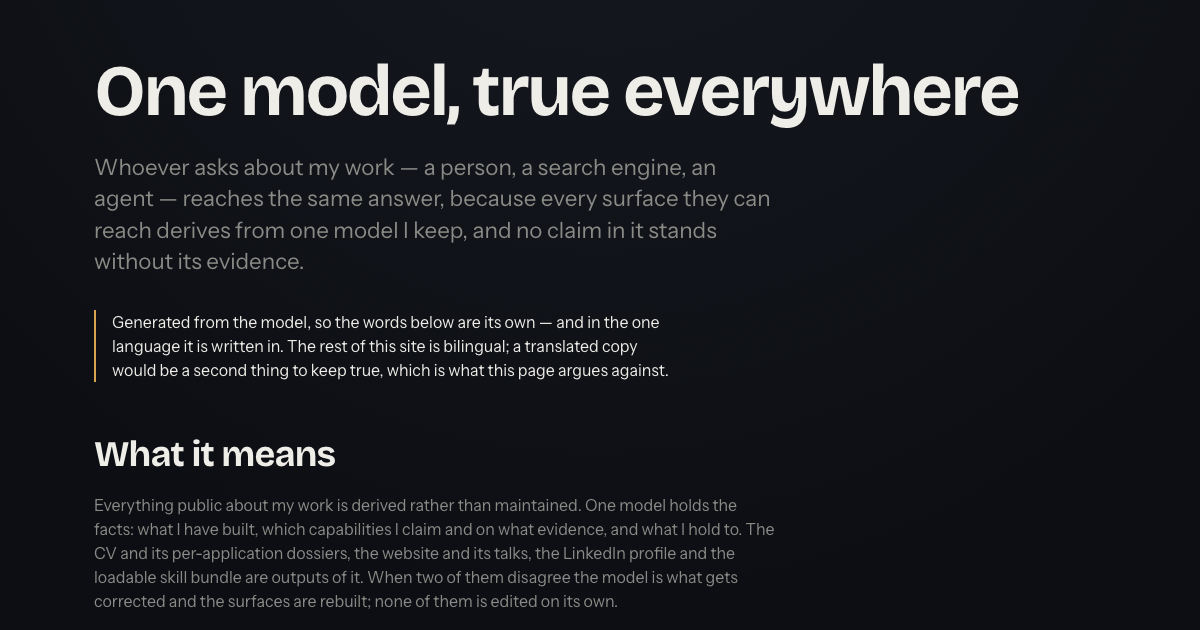
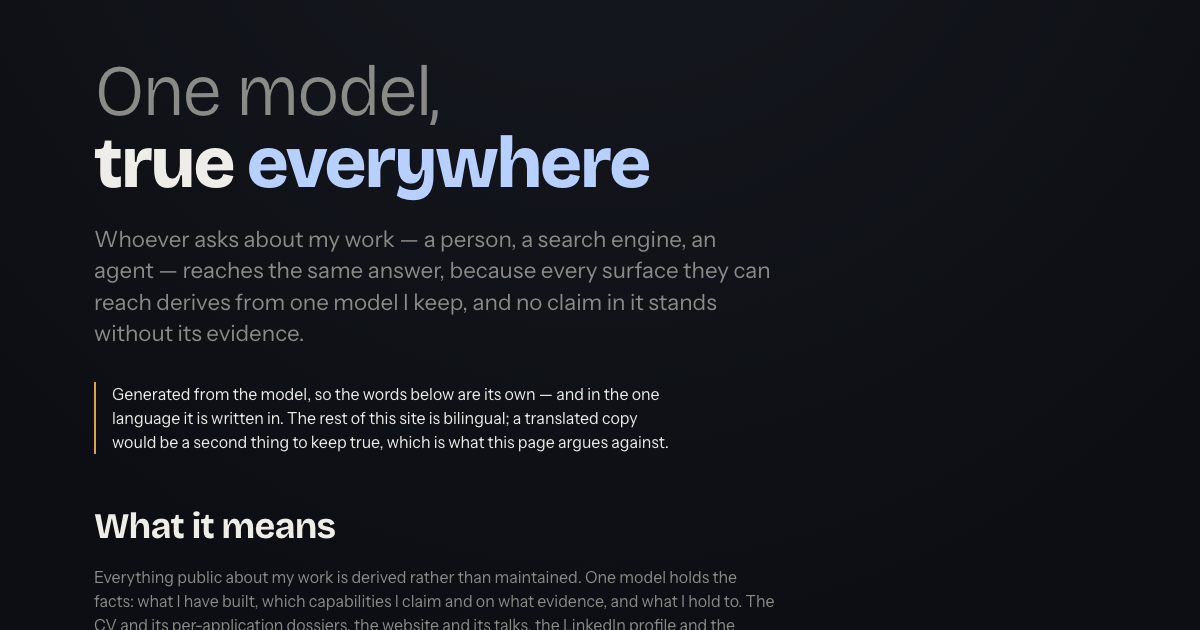
The headline gets the treatment the other title pages have
Every title page here breaks its headline the same way: a muted first
clause, then the rest in weight with its last word in the accent. Not per
record. / Per arrival. This site collects / nothing. The principles page
had one flat line in one colour, which read as a page that had not been
finished rather than one that had chosen restraint.

The split is presentation, not content, so it is derived from the string
rather than stored beside it — at the first comma, which is where this
kind of sentence turns. A headline without one keeps its whole self in
the second half, which is the same treatment with an empty first clause
rather than a special case.

Nothing is added to the words: the other pages end in a full stop and
this one does not, because the model's line does not, and punctuation is
not the renderer's to invent.

Changed region(s): [[0.0617, 0.3619, 0.6475, 0.754], [0.0617, 0.7841, 0.6475, 1.0], [0.0617, 0.0905, 0.8633, 0.3317]]

diff --git a/principles/index.html b/principles/index.html
@@ -243,7 +243,7 @@
   <div class="shell">
     <!-- principles:start -->
     <div class="title">
-      <h1>One model, true everywhere</h1>
+      <h1><span class="r70">One model,</span><span class="rcl">true <em>everywhere</em></span></h1>
       <p class="tagline">Whoever asks about my work — a person, a search engine, an agent — reaches the same answer, because every surface they can reach derives from one model I keep, and no claim in it stands without its evidence.</p>
       <p class="note" data-de="Aus dem Modell erzeugt: Die Worte unten sind seine eigenen — und in der einen Sprache, in der es geschrieben ist. Der Rest dieser Seite ist zweisprachig; eine übersetzte Zweitfassung wäre eine zweite Sache, die wahr bleiben muss — genau das, wogegen diese Seite argumentiert.">Generated from the model, so the words below are its own — and in the one language it is written in. The rest of this site is bilingual; a translated copy would be a second thing to keep true, which is what this page argues against.</p>
     </div>
